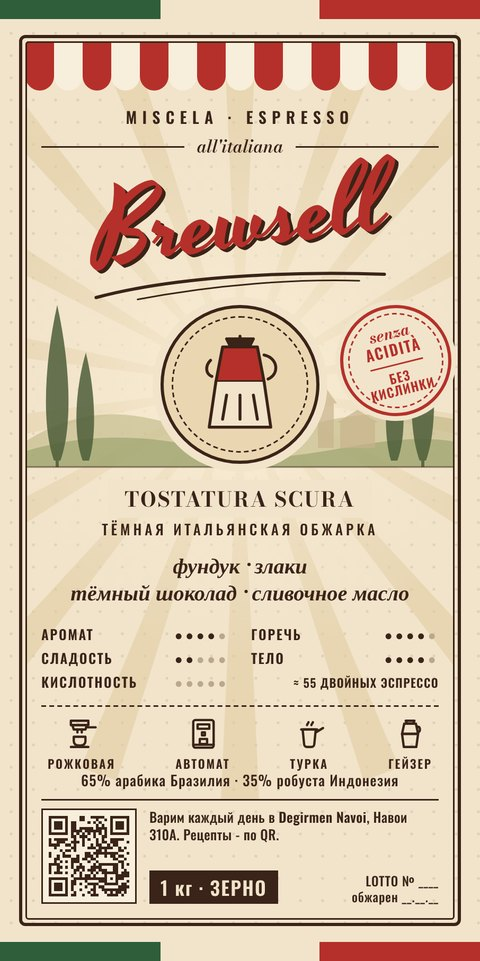
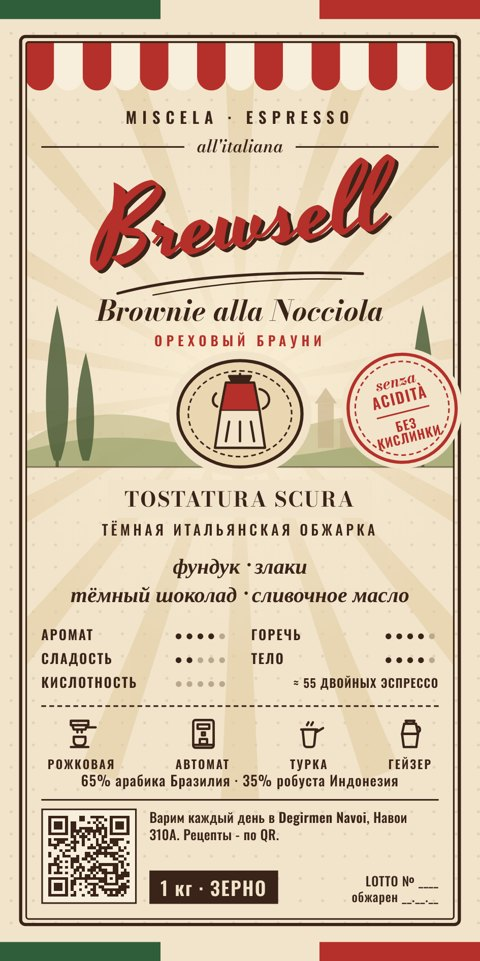
Brewsell: бленд «Brownie alla Nocciola / Ореховый брауни» на наклейке, сайте и в приложении
Claude-Session: https://claude.ai/code/session_011iqvdoF3gx5p3swzv6Zjn6

diff --git a/brewsell/index.html b/brewsell/index.html
@@ -3,10 +3,10 @@
 <head>
 <meta charset="utf-8">
 <meta name="viewport" content="width=device-width,initial-scale=1,viewport-fit=cover">
-<title>Brewsell - эспрессо-смесь в итальянском стиле</title>
+<title>Brewsell Brownie alla Nocciola - ореховый брауни, эспрессо-смесь</title>
 <meta name="description" content="Brewsell: тёмная итальянская обжарка, 65% арабики Бразилии и 35% робусты Индонезии. Крепкий кофе без кислинки. Рецепты для рожковой и автоматической кофемашины, турки и гейзера.">
 <meta name="theme-color" content="#1A100B">
-<meta property="og:title" content="Brewsell - miscela espresso all'italiana">
+<meta property="og:title" content="Brewsell · Brownie alla Nocciola - ореховый брауни">
 <meta property="og:description" content="Крепкий, без кислинки. Фундук, злаки, тёмный шоколад, сливочное масло. Пачка 1 кг - 9 500 ₸.">
 <meta property="og:image" content="https://degirmen-navoi.kz/brewsell/label.jpg">
 <link rel="preconnect" href="https://fonts.googleapis.com">
@@ -49,6 +49,7 @@ h2 em,h1 em{font-style:italic;font-weight:600;color:var(--gold)}
 .brand{font:400 clamp(84px,19vw,200px)/.8 var(--f-logo);color:var(--red);text-shadow:3px 3px 0 #000;transform:rotate(-6deg);transform-origin:left bottom;display:inline-block;margin:22px 0 10px -4px}
 .brand span{display:inline-block;opacity:0;transform:translateY(40px) rotate(8deg);animation:ink .9s cubic-bezier(.2,.9,.25,1.2) forwards}
 @keyframes ink{to{opacity:1;transform:none}}
+.blend{font:italic 600 clamp(22px,3.4vw,34px)/1.1 var(--f-disp);color:var(--cream);margin:2px 0 6px;text-shadow:0 2px 18px rgba(26,16,11,.9)}.blend span{font:500 clamp(11px,1.2vw,13px) var(--f-lab);letter-spacing:.24em;text-transform:uppercase;color:var(--red);font-style:normal;margin-left:6px;white-space:nowrap}
 .btns{display:flex;flex-wrap:wrap;gap:12px;margin-top:26px}
 /* кнопки: блик, нажатие, рябь, на десктопе - магнит */
 .btn{position:relative;overflow:hidden;isolation:isolate;display:inline-flex;align-items:center;gap:10px;padding:14px 22px;border-radius:999px;font:500 14px var(--f-lab);letter-spacing:.14em;text-transform:uppercase;text-decoration:none;color:var(--esp);background:var(--cream);border:1.5px solid var(--cream);cursor:pointer;transition:transform .25s cubic-bezier(.2,.9,.3,1.3),box-shadow .3s,background .3s,color .3s;will-change:transform}
@@ -158,6 +159,7 @@ footer .wrap{display:flex;flex-wrap:wrap;gap:8px 24px;justify-content:space-betw
     <div class="stage tall" aria-hidden="true"></div>
     <div class="eyebrow reveal">Miscela espresso all'italiana</div>
     <div class="brand" aria-hidden="true" id="brand">Brewsell</div>
+    <div class="blend reveal">Brownie alla Nocciola <span>· ореховый брауни</span></div>
     <h1 class="reveal">Крепкий. Без кислинки. <em>Как в итальянском баре.</em></h1>
     <p class="lead reveal">Тёмная итальянская обжарка: 65% арабики из Бразилии и 35% робусты из Индонезии. Во вкусе фундук, злаки, тёмный шоколад и сливочное масло.</p>
     <div class="btns reveal"><a class="btn" href="#buy" data-burst>Купить пачку <span class="ar">→</span></a><a class="btn ghost" href="#brew">Как приготовить</a></div>
@@ -230,7 +232,7 @@ footer .wrap{display:flex;flex-wrap:wrap;gap:8px 24px;justify-content:space-betw
 <section id="buy" data-scene="buy" class="drag">
   <div class="wrap"><div class="stage tall" aria-hidden="true"></div><div class="col">
     <div class="eyebrow reveal">Compra · купить</div>
-    <h2 class="reveal">Пачка домой, <em>как в баре</em></h2>
+    <h2 class="reveal">«Ореховый брауни» <em>домой</em></h2>
     <div class="price reveal"><span data-count="9500" data-sep="1">9 500</span> ₸ <small>/ 1 кг зерна</small></div>
     <div class="buyfacts reveal">
       <div><b>≈ 55</b><span>двойных эспрессо</span></div>

diff --git a/index.html b/index.html
@@ -4375,7 +4375,7 @@ async function geoDelGo(id){const{error}=await sb.rpc('admin_device_set',{p_id:i
 {const _l=loadPf;loadPf=async function(){const r=await _l.apply(this,arguments);try{const{data}=await sb.rpc('is_dev');S.dev=data===true}catch(e){S.dev=false}return r}}
 
 // ---------- Brewsell: пачка в разделе «кофе» + переход с бренд-сайта (?buy=bw) ----------
-const BWT={ru:{n:'Зерно 1 кг · для дома',d:'Наш итальянский бленд без кислинки. Варим на нём каждый день.',b:'Купить',m:'О кофе и рецептах →'},kk:{n:'Дәнді кофе 1 кг · үйге',d:'Қышқылсыз итальяндық бленд. Күн сайын осы дәнмен қайнатамыз.',b:'Сатып алу',m:'Кофе мен рецепттер →'},en:{n:'Whole beans 1 kg · for home',d:'Our Italian blend with no sourness. We brew it every day.',b:'Buy',m:'About the coffee →'}};
+const BWT={ru:{n:'«Ореховый брауни» · зерно 1 кг',d:'Наш итальянский бленд без кислинки. Варим на нём каждый день.',b:'Купить',m:'О кофе и рецептах →'},kk:{n:'«Жаңғақты брауни» · дәнді кофе 1 кг',d:'Қышқылсыз итальяндық бленд. Күн сайын осы дәнмен қайнатамыз.',b:'Сатып алу',m:'Кофе мен рецепттер →'},en:{n:'Hazelnut Brownie · whole beans 1 kg',d:'Our Italian blend with no sourness. We brew it every day.',b:'Buy',m:'About the coffee →'}};
 function bwPack(sz){return `<div class="bwp ${sz||''}" aria-hidden="true"><div class="bwp-r"><div class="bwp-b"><i class="f fr"></i><i class="f bk"></i><i class="f lf"></i><i class="f rt"></i><i class="f tp"></i><i class="f bt"></i></div></div><div class="bwo">${[0,1,2,3,4].map(k=>`<i style="--k:${k}"></i>`).join('')}</div><i class="bwp-sh"></i></div>`}
 function bwCard(){const it=S.items.find(i=>i.id=='bw');if(!it||it.sold_out)return '';const x=BWT[S.L]||BWT.ru;
   return `<div class="bwcard${S.ent?' ent':''}" data-id="bw" onclick="op_('bw',event)">${bwPack('')}<div class="bwt"><div class="bws">Brewsell</div><div class="bwn">${x.n}</div><div class="bwd">${x.d}</div><a class="bwmore" href="/brewsell/" onclick="event.stopPropagation()">${x.m}</a><div class="bwpr"><b>${price(it)}</b><span class="bwbtn">${x.b}</span></div></div></div>`}
